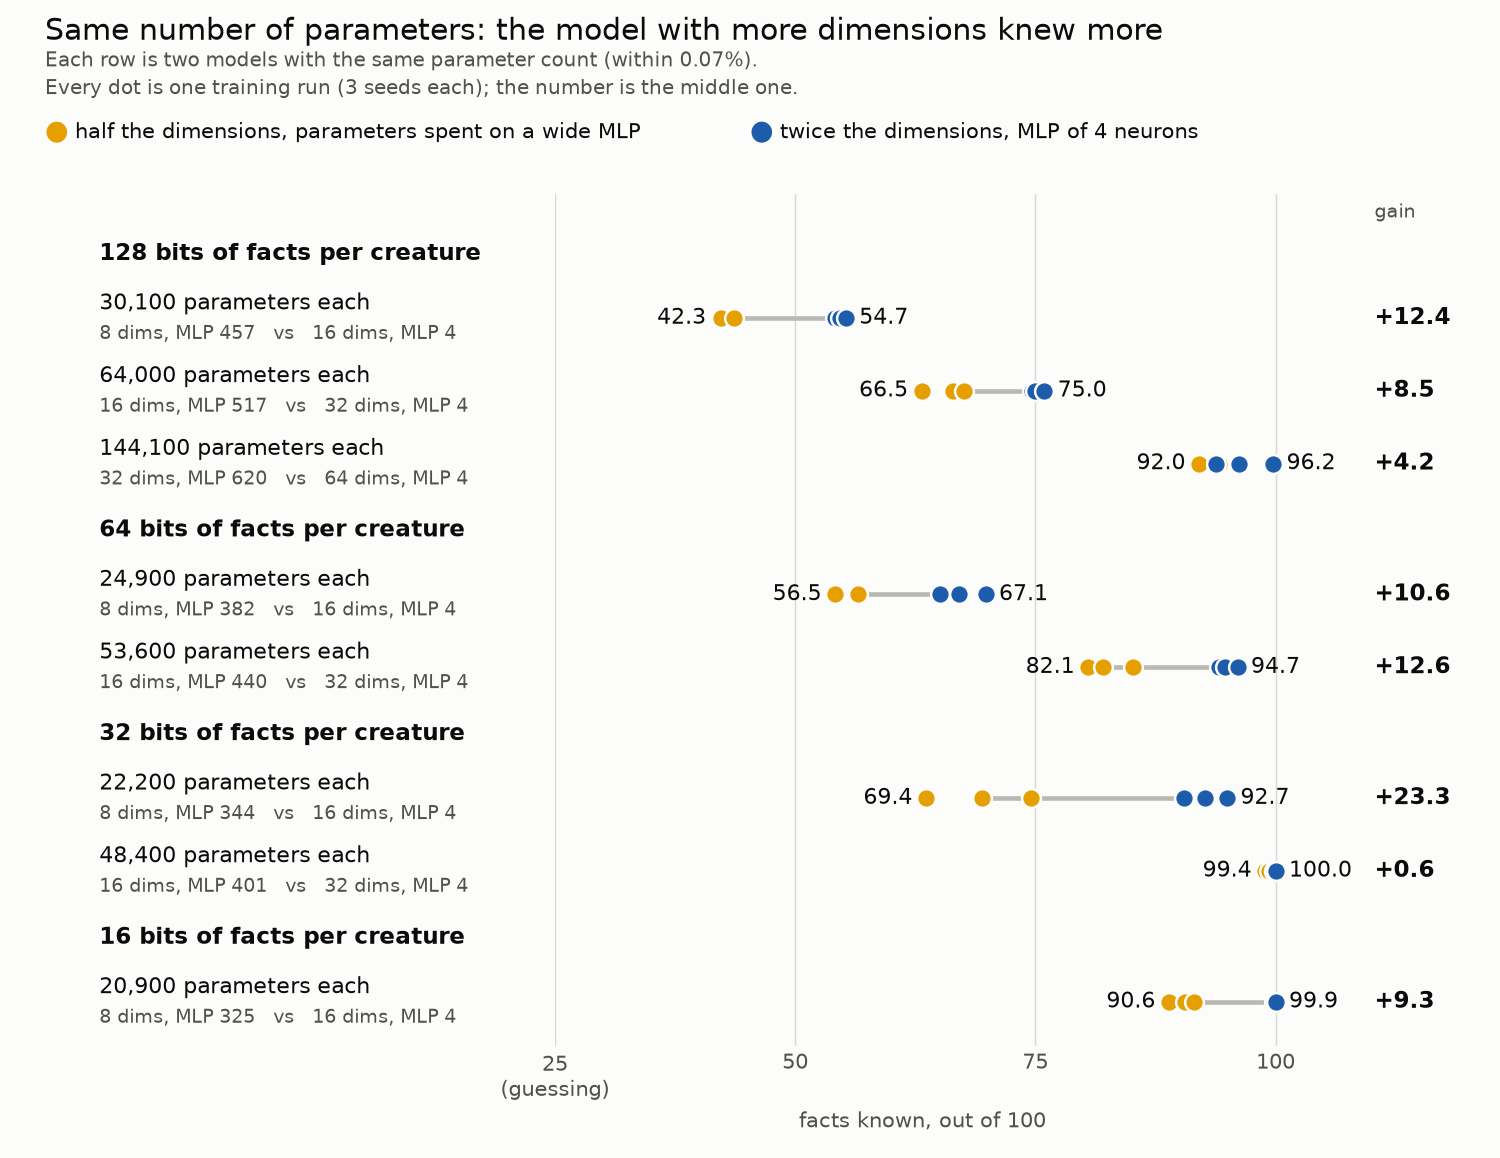
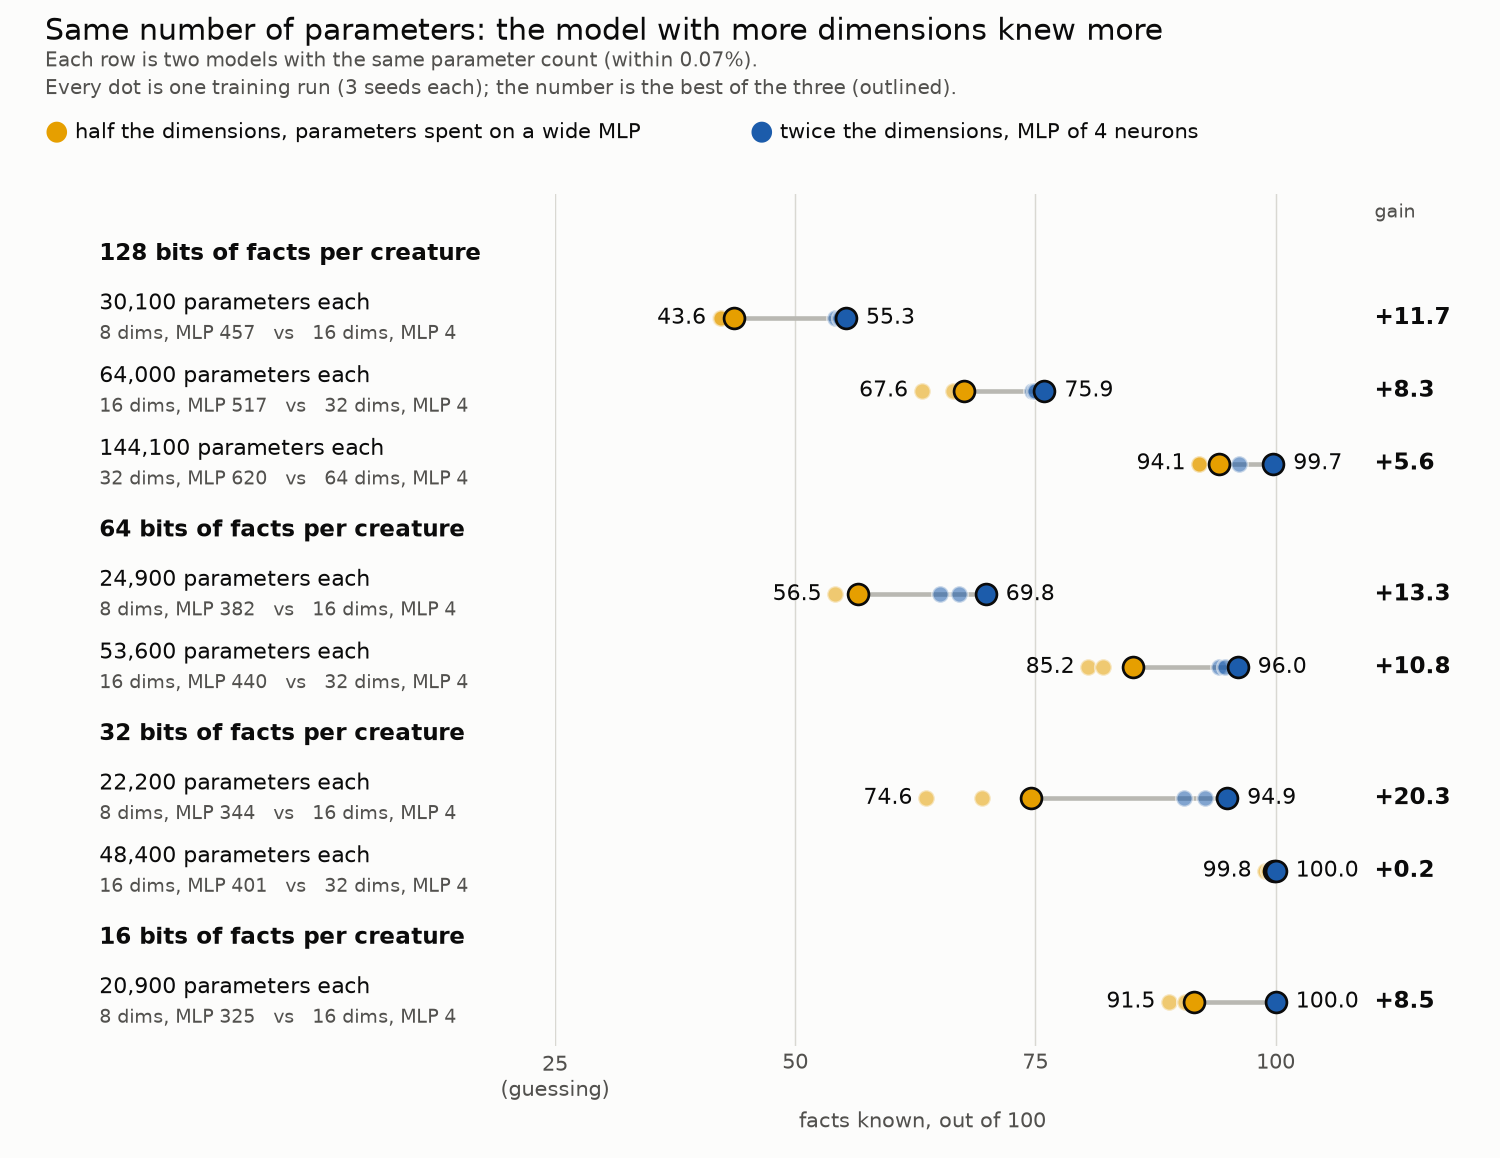
Explain the language, the information and the two widths; show best seeds in the pairs graph

diff --git a/index.html b/index.html
@@ -40,12 +40,77 @@ are represented in, not on its parameter count. At equal parameter count, the mo
 dimensions knew more facts in every comparison that was not already at 100. Each coordinate of a
 word's vector stores about 3 bits of facts; an extra MLP weight stores about 0.5.</p>
 
-<p><b>Setup.</b> 2-layer, 2-head transformers are trained on a made-up language: 1,024 creatures,
-each with 8 to 128 bits of random facts, which the model is asked about. Two knobs are varied:
-the number of dimensions each word is represented in (8, 16, 32, 64, which is also the width of
-the residual stream) and the width of the MLP (4 to 128 neurons, up to 620 in a follow-up).
-2,880 models (3 seeds each), plus 45 size-matched models. Score: facts answered correctly out of
-100, where 25 is chance.</p>
+<h2>The experiment in brief</h2>
+
+<p><b>The "language".</b> A made-up vocabulary of up to 1,024 creatures (foxes, crows, ...). Each
+creature is given a fixed list of facts: its colour, its food, where it lives, and so on. Each
+fact has four possible answers, and the answers are assigned at random. The model is never shown
+this list. It only reads short sentences generated from it (<i>foxes and crows are black .</i>,
+<i>foxes do not eat seeds .</i>, <i>are foxes and bears black ? no</i>) and is trained, like any
+language model, to predict the next word.</p>
+<img src="fig02_language.png" alt="One creature with its facts, and the four parts of the test">
+<p class="cap">Left: one creature and its facts, the true answers outlined. Right: the test. The
+model is given the words in the pale boxes and must supply the outlined one.</p>
+
+<p><b>Why a language is a known amount of information.</b> Because the answers are random, a
+creature's facts cannot be worked out from another creature or from any rule: the only way to
+answer is to have stored each fact. One fact with four equally likely answers is 2 bits, so a
+language holds creatures &times; facts &times; 2 bits and nothing else. The largest one here holds
+1,024 &times; 64 &times; 2 = 131,072 bits. The test measures how much of that a model has stored.</p>
+
+<p><b>How the information is varied.</b> By the number of creatures (16, 64, 256 or 1,024) and by
+the number of facts per creature (4, 8, 16, 32 or 64, that is 8 to 128 bits per creature).
+Creatures are used either equally often or with a Zipf distribution, as words are in real text.
+The results on this page are for 1,024 creatures used equally often.</p>
+
+<p><b>The word table.</b> The model's embedding matrix. It has one row for every word of the
+language, and a row is <i>d</i> trained numbers: the word's position in a <i>d</i>-dimensional
+space. When the model reads a word, that row is all it gets. <i>d</i> is the first thing varied:
+8, 16, 32 or 64. As in any transformer, <i>d</i> is also the size of the vectors that pass between
+the layers (the residual stream).</p>
+
+<p><b>The two widths.</b> Each of the model's 2 layers has an attention part, which works on the
+<i>d</i> numbers, and an MLP, which spreads them over <i>m</i> neurons and brings them back to
+<i>d</i>. <i>m</i> is the second thing varied, separately from <i>d</i>: 4, 8, 16, 32, 64 or 128
+neurons. Raising <i>m</i> adds parameters without adding dimensions; raising <i>d</i> adds both.
+Comparing the two is what separates "more parameters" from "more dimensions".</p>
+<div class="wrap">
+<svg viewBox="0 0 760 236" role="img" aria-label="The model: a word is looked up in the word table as d numbers, passes through two layers, each with attention on d numbers and an MLP of m neurons, and a read-out turns d numbers into the next word" style="min-width:640px;width:100%;height:auto;font-family:inherit">
+  <defs><marker id="ar" viewBox="0 0 10 10" refX="9" refY="5" markerWidth="7" markerHeight="7" orient="auto"><path d="M0 0L10 5L0 10z" fill="#52514e"/></marker></defs>
+  <g fill="none" stroke-width="2">
+    <rect x="6" y="80" width="96" height="56" rx="4" stroke="#b9b8b2"/>
+    <rect x="140" y="62" width="176" height="92" rx="4" stroke="#1c5cab"/>
+    <rect x="354" y="20" width="262" height="176" rx="4" stroke="#b9b8b2" stroke-dasharray="5 4"/>
+    <rect x="370" y="58" width="230" height="46" rx="4" stroke="#1c5cab"/>
+    <rect x="370" y="122" width="230" height="58" rx="4" stroke="#e69f00"/>
+    <rect x="654" y="72" width="100" height="72" rx="4" stroke="#1c5cab"/>
+  </g>
+  <g stroke="#52514e" stroke-width="1.6" marker-end="url(#ar)">
+    <line x1="104" y1="108" x2="137" y2="108"/><line x1="318" y1="108" x2="351" y2="108"/>
+    <line x1="618" y1="108" x2="651" y2="108"/>
+  </g>
+  <g fill="#0b0b0b" font-size="14" text-anchor="middle">
+    <text x="54" y="103" fill="#52514e" font-size="12.5">a word</text><text x="54" y="123" font-family="monospace">foxes</text>
+    <text x="228" y="90" font-weight="600">word table</text>
+    <text x="228" y="113" font-size="13">one row for every word,</text><text x="228" y="132" font-size="13">d numbers in a row</text>
+    <text x="485" y="44" fill="#52514e" font-size="12.5">one layer (the model has 2)</text>
+    <text x="485" y="86" font-size="13"><tspan font-weight="600">attention</tspan>: works on d numbers</text>
+    <text x="485" y="147" font-size="13"><tspan font-weight="600">MLP</tspan>: d numbers in,</text>
+    <text x="485" y="166" font-size="13">m neurons, d numbers out</text>
+    <text x="704" y="98" font-weight="600">read-out</text>
+    <text x="704" y="118" font-size="13">d numbers</text><text x="704" y="135" font-size="13">to next word</text>
+  </g>
+  <rect x="6" y="213" width="13" height="13" fill="#1c5cab"/><text x="26" y="224.5" font-size="13" fill="#0b0b0b">d = 8, 16, 32 or 64 (dimensions)</text>
+  <rect x="318" y="213" width="13" height="13" fill="#e69f00"/><text x="338" y="224.5" font-size="13" fill="#0b0b0b">m = 4 to 128 (MLP width; up to 620 in the size-matched runs)</text>
+</svg>
+</div>
+<p class="cap">Every part outlined in blue has the size <i>d</i>; only the MLP's middle has the
+size <i>m</i>.</p>
+
+<p><b>The score.</b> "Facts known": given a creature and a kind of fact (<i>foxes are ...</i>), the
+model must rank the true answer first among the four. 100 means every fact of every creature; 25
+is guessing. In all 2,880 models were trained (960 combinations of the settings above, 3 random
+seeds each), plus 45 size-matched models.</p>
 
 <h2>1. The dimensions set the limit; the MLP barely moves it</h2>
 <div class="wrap">
@@ -66,8 +131,9 @@ widening the MLP from 4 to 128 to 457 neurons gave 39, 42, 42.</p>
 <img src="pairs.png" alt="Eight pairs of models with equal parameter counts; in each, the model with twice the dimensions knows more facts">
 <p class="cap">Each row is one parameter count and two models that both have it: one with half
 the dimensions and a very wide MLP (316 to 620 neurons), one with twice the dimensions and an MLP
-of 4 neurons. In all 8 pairs that were not both at 100, the higher-dimensional model knew more:
-by 4 to 23 points in seven of them, and by under 1 point in the eighth (99.4 against 100). In 6
+of 4 neurons. Comparing each model's best of three seeds, the higher-dimensional model knew more in all 8
+pairs that were not both at 100: by 6 to 20 points in seven of them, and by under 1 point in the
+eighth (99.8 against 100). The middle seeds give the same picture (4 to 23 points, and 0.6). In 6
 of the 8, every seed scored below every seed of the higher-dimensional model. The other 7 pairs
 tested (lighter loads) both reached 100.</p>
 
@@ -99,9 +165,6 @@ so it is worth 2 bits. A model is never shown the facts directly. It only reads 
 one to four creatures: statements (<i>foxes and crows are black .</i>), "not" statements
 (<i>foxes do not eat seeds .</i>) and questions with their answer (<i>are foxes and bears black ?
 no</i>). After training it takes a fixed test of four parts. Facts known is the main score.</p>
-<img src="fig02_language.png" alt="One creature with its facts, and the four parts of the test">
-<p class="cap">Left: one creature, its true answers outlined. Right: in each part of the test the
-model is given the words in the pale boxes and must supply the outlined one.</p>
 
 <h2>The model</h2>
 <p>A transformer with 2 layers and 2 attention heads that reads a sentence word by word and
